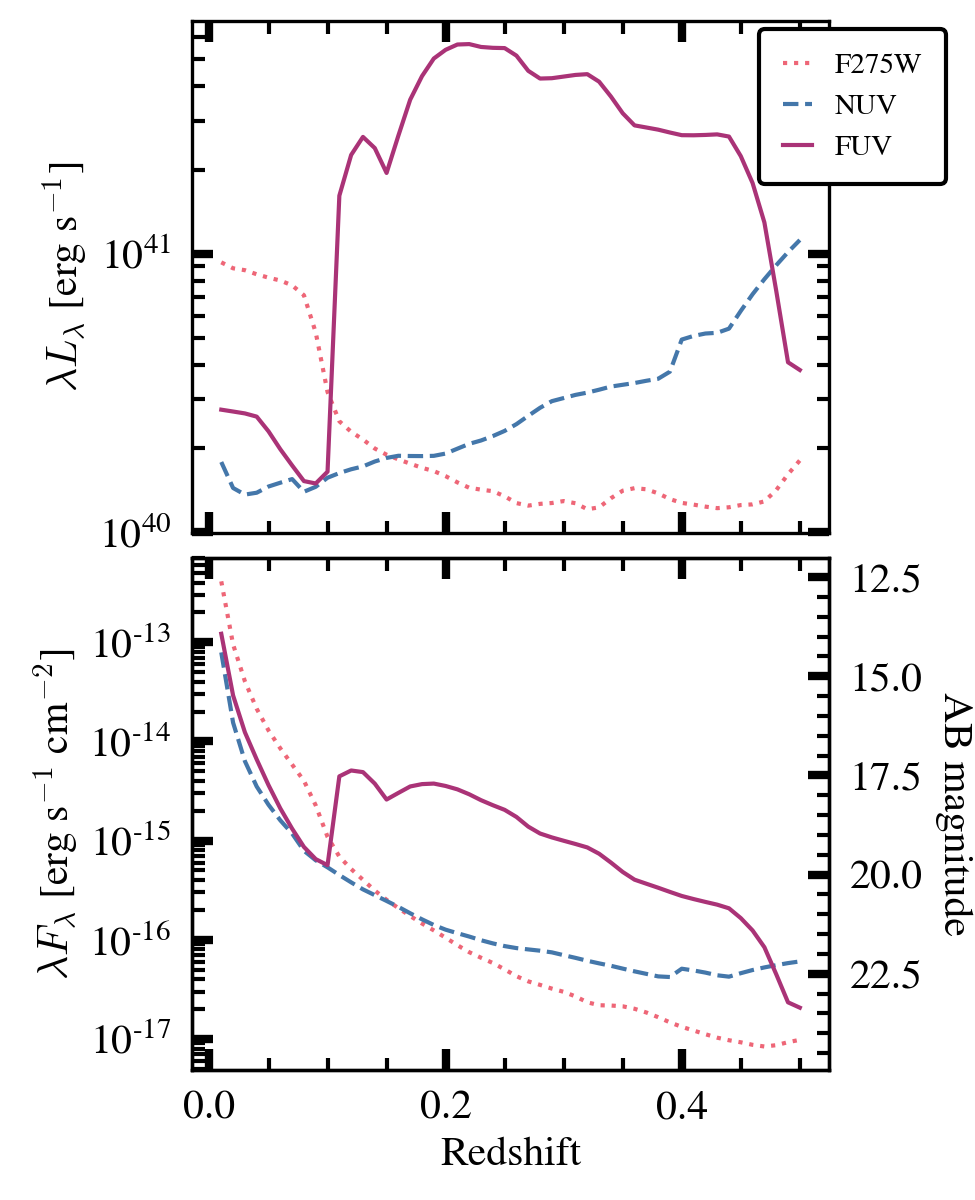
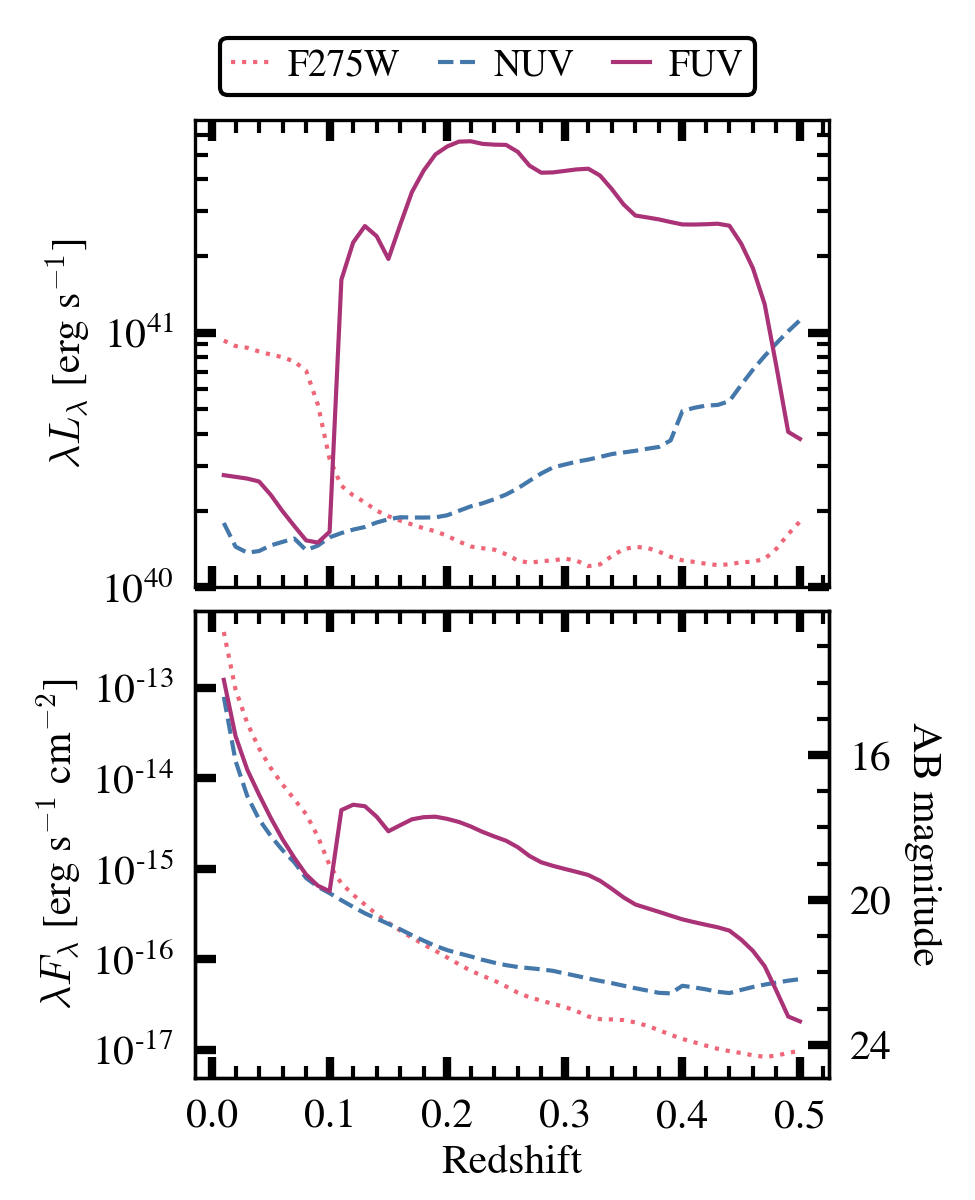
tweaked two-panel Chev94 plot

diff --git a/CSMmodel.py b/CSMmodel.py
@@ -156,7 +156,7 @@ class CSMmodel:
     def plot_redshift(self, show=False, save=True, zmin=0., zmax=0.5, tstep=0.):
         """Plot filter luminosity vs redshift."""
 
-        fig, axs = plt.subplots(2, figsize=(3.25, 4), sharex=True)
+        fig, axs = plt.subplots(2, figsize=(3.25, 4.), sharex=True)
         
         # Set up axes: top plot luminosity, bottom plot flux
         lum_ax = axs[0]
@@ -191,6 +191,9 @@ class CSMmodel:
             flux_ax.plot(z_vals, f_array, color=COLORS[band], label=band, 
                     lw=1, ls=line_style[band])
         
+        # Configure x-axis
+        lum_ax.xaxis.set_major_locator(ticker.MultipleLocator(0.1))
+        
         # Configure top plot
         lum_ax.set_yscale('log')
         # lum_ax.set_xlabel('Redshift')
@@ -200,6 +203,10 @@ class CSMmodel:
         flux_ax.set_yscale('log')
         flux_ax.set_xlabel('Redshift')
         flux_ax.set_ylabel('$\lambda F_\lambda$ [erg s$^{-1}$ cm$^{-2}$]')
+        flux_ax.yaxis.set_major_locator(
+                ticker.FixedLocator([1e-13, 1e-14, 1e-15, 1e-16, 1e-17])
+        )
+        flux_ax.yaxis.set_minor_locator(ticker.NullLocator())
 
         # Twin axis for conversion to AB magnitudes
         mag_ax = flux_ax.twinx()
@@ -207,13 +214,19 @@ class CSMmodel:
         ylim_mag = flux2mag(ylim_flux, band)
         mag_ax.set_ylim(ylim_mag)
         mag_ax.set_ylabel('AB magnitude', rotation=270, labelpad=12)
+        mag_ax.yaxis.set_major_locator(ticker.MultipleLocator(4))
         
         # Legend
         handles, labels = lum_ax.get_legend_handles_labels()
-        fig.legend(handles, labels, loc='upper right', fontsize=7, handlelength=1.)
-
-        plt.tight_layout(pad=0.5)
-        plt.subplots_adjust(hspace=0.05, right=0.85)
+        # fig.legend(handles, labels, loc='lower left', ncol=3,
+        #            bbox_to_anchor=(0., 1.02, 1., .102), fontsize=7, 
+        #            handlelength=1., mode='expand', borderaxespad=0.)
+        fig.legend(handles, labels, loc='upper center', ncol=3, #bbox_to_anchor=(1.05, 0.95), 
+            handletextpad=0.5, handlelength=1., borderpad=0.3, fontsize=9)
+        
+        plt.tight_layout(pad=0.3)
+        plt.subplots_adjust(hspace=0.05, right=0.85, left=0.2, top=0.9)
+        # plt.tight_layout()
 
         plt.savefig(Path('out/Chev94_redshift2.pdf'), dpi=300)
         plt.savefig(Path('out/Chev94_redshift2.png'), dpi=300)
